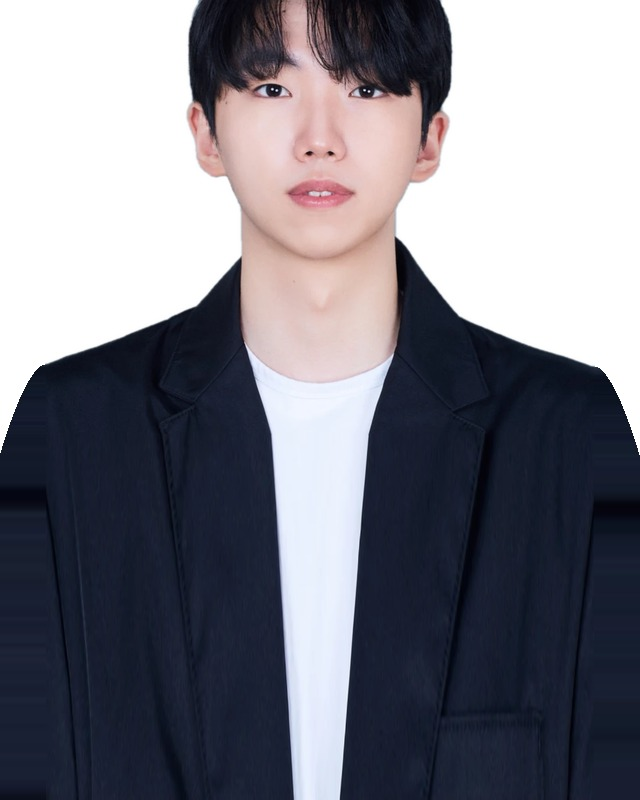
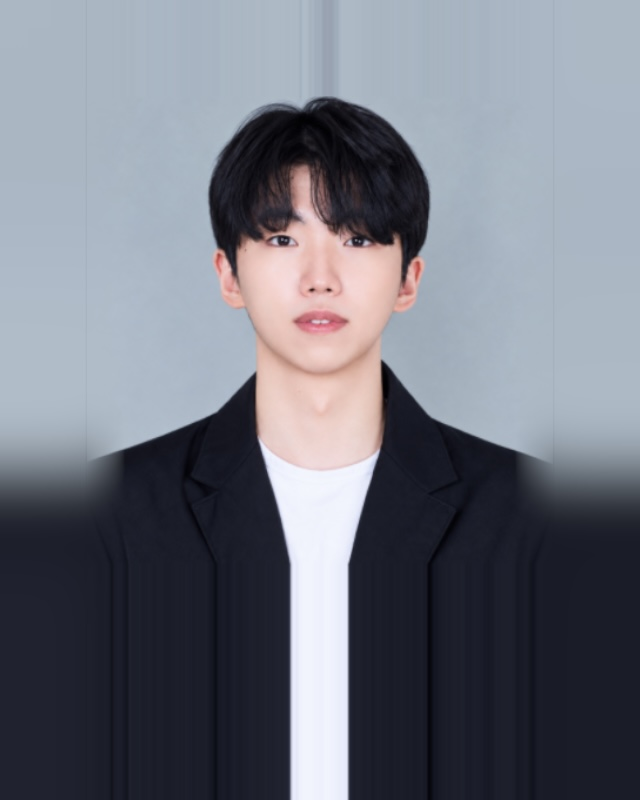
강사진: 국어 순서 류성훈·이태형·장의순·최현재, 장의순·김호랑 사진·약력, 이태형 사진 교체(얼굴 작게)·시대인재 대치 추가, 이태형T 수강후기 10건

diff --git a/index.html b/index.html
@@ -332,6 +332,14 @@ section.v2-sec.gray{background:#F4F4F2;padding:120px 0}
 .evc.js .sem{background:none;border-radius:0;border-top:1px solid #34363B;padding:16px 0 4px}.evc.js .sem .d{color:#B9BBBF}.evc.js .sem .d b{color:#fff}
 .evc.js .tel{background:#fff;color:#111214;border-radius:0;font-weight:600}
 @media(max-width:600px){.v2-hero{padding:72px 0 64px}.v2-photo{height:300px}section.v2-sec,section.v2-sec.gray,.v2-songdo,.v2-contact{padding:88px 0}.v2-three article{padding:32px 0}.v2-rows span{font-size:16px}.v2-rows b{font-size:26px}}
+
+/* 2026-11-23 이태형T 수강후기 (2027학년도) */
+.rv-grid{columns:2 340px;column-gap:20px}
+.rv{break-inside:avoid;margin:0 0 20px;background:#fff;border:1px solid #E4E4E1;padding:26px 26px 22px}
+.rv b{display:block;font-family:"Noto Serif KR",serif;font-size:19px;font-weight:600;line-height:1.45;margin-bottom:12px;color:#111214}
+.rv p{margin:0;font-size:15px;line-height:1.85;color:#45484D}
+.rv small{display:block;margin-top:14px;font-size:12.5px;letter-spacing:.04em;color:var(--accent);font-weight:600}
+.rv.hide{display:none}
 </style>
 </head>
 <body>
@@ -424,6 +432,18 @@ section.v2-sec.gray{background:#F4F4F2;padding:120px 0}
     <div class="gallery" id="gallery"></div>
     <div class="more"><button class="v2-btn line" id="moreBtn">수기 더 보기</button></div>
     <p class="note">※ 수기와 성적표는 동의를 받은 제자들에 한해 공개하며, 학생 이름은 가려서 게시합니다.</p>
+  </div>
+</section>
+
+<section class="v2-sec gray" id="reviews">
+  <div class="wrap">
+    <div class="v2-head">
+      <div><p class="v2-eye">REVIEWS · 2027학년도</p><h2>이태형T — 오늘부로 시험을 잘 보는 사람으로 다시 태어나다!</h2></div>
+      <p style="margin:0;max-width:420px;color:#45484D">2027 수능을 마친 이태형 선생님 국어 수강생들이 직접 보내온 후기입니다.</p>
+    </div>
+    <div class="rv-grid" id="rvGrid"></div>
+    <div class="more"><button class="v2-btn line" id="rvMore">후기 더 보기</button></div>
+    <p class="note">※ 수강생이 보낸 카카오톡 후기를 동의를 받아 옮겼으며, 읽기 쉽도록 길이를 줄이고 표현을 다듬었습니다.</p>
   </div>
 </section>
 
@@ -552,7 +572,8 @@ section.v2-sec.gray{background:#F4F4F2;padding:120px 0}
 const T=[
 /* 약력 순서 통일: ① 학력 → ② 현) → ③ 전) → ④ 실적 · 저서  (2026-11-16 사장님 요청) */
  {n:'류성훈',s:'국어',c:['강남대성학원 S2 언어와 매체 강의평가 최우수 강사','대치 두각','26학년도 수능 언어와 매체 만점자 배출 (전국 250명 가량)']},
- {n:'이태형',s:'국어',c:['서울대학교','다원교육','연속 수능 국어 만점자 배출','행정고시 2차 PASS','LEET 언어이해 1등']},
+ {n:'이태형',s:'국어',c:['서울대학교','시대인재 대치','다원교육','연속 수능 국어 만점자 배출','행정고시 2차 PASS','LEET 언어이해 1등']},
+ {n:'장의순',s:'국어',c:['서울대학교 국어국문학과 졸업','시대인재 재종학원 정규반','장의순 수능국어 연구소','시대인재 서바이벌 검수','상상모의고사 공식 해설 강사 (온라인 단독 선정)','KBS · TV조선 의대 입시 인터뷰']},
  {n:'권현석',s:'수학',c:['서울대학교 졸업','강남대성','대치 두각']},
  {n:'정민',s:'영어',c:['고려대학교 영어교육과','메가스터디 최상위권 담당 강사','강의평가 1위','모의고사 출제 · 검수 위원']},
  {n:'홍진수',s:'탐구',t:'통합과학',c:['서울대학교','현) 대성마이맥 수능 물리학 인강','현) 대치 미래탐구','전) 대치 다원교육','전) 강남대성학원']},
@@ -565,8 +586,7 @@ const T=[
  {n:'최현재',s:'국어',t:'국어 · 고3 내신',c:['고려대학교 졸업','메가로스쿨 LEET 언어이해 전국모의고사 출제 · 검토 위원 (2018년~)','상상 모의고사 인문 분야 독서 출제 (2021년~)','강대K 모의고사 독서 출제 · 검토 (2021년~)','바탕 모의고사 사회 분야 독서 출제 (2021년~)']},
  {n:'손영호',s:'수학',c:['서울대학교 수학과 · 포항공대 석사','미래탐구 · 포철고 · 천안북일고 등 자사고 · 지자체 논술 강의']},
  {n:'김광수',s:'국어',c:['서울대학교 국어국문학과 박사','전) 시대인재','『청산 약술국어해설집』']},
- {n:'장의순',s:'국어',c:['서울대학교 국어국문학과','대치 시대인재 국어','KBS · TV조선 의대 입시 인터뷰']},
- {n:'김호랑',s:'국어',c:['서울대학교 국어교육과','메가스터디 러셀 강남 · 대치 독수리의대관','24 · 25 · 26 수능 언어와 매체 적중','『문법 초석』 집필']},
+ {n:'김호랑',s:'국어',t:'언어와 매체',c:['서울대학교 국어교육과 졸업','현) 메가스터디 러셀 강남 강사','현) 대치 독수리 의대관 강사','교재 『문법 초석』 집필 및 강의 활용','수능 · 내신 대비 주관식 테스트 / 피드백','24 · 25 · 26학년도 수능 언어와 매체 100% 적중','25 · 26학년도 6평, 24 · 26학년도 9평 언매 적중']},
  {n:'김경한',s:'수학',c:['고려대학교 수학교육과 졸업','현) 대성마이맥 인강 강사','현) 두각학원','현) 강남대성학원','현) 독수리 의대관','EBS · 대성마이맥 · 강남대성 강의평가 1위']},
  {n:'김병우',s:'수학',c:['고려대학교 수학교육과','대치 시대인재']},
  {n:'김준교',s:'수학',c:['서울과학고등학교 졸업','KAIST 졸업']},
@@ -590,7 +610,7 @@ const T=[
 ];
 const list=document.getElementById('tlist');
 /* 사진: img/teachers/이름.jpg 를 PHOTO 에 적으면 사진, 없으면 성 한 글자 */
-const PHOTO={};['류성훈','이태형','권현석','정민','홍진수','최정윤','이예섭','정지만','김현중','이창환','최현재','김경한','문지현','박정은'].forEach(n=>PHOTO[n]='img/teachers/'+n+'.jpg');
+const PHOTO={};['류성훈','이태형','장의순','김호랑','권현석','정민','홍진수','최정윤','이예섭','정지만','김현중','이창환','최현재','김경한','문지현','박정은'].forEach(n=>PHOTO[n]='img/teachers/'+n+'.jpg');
 /* 줄 순서: 1줄 국어 · 2줄 수학 · 3줄 영어 · 4줄 탐구 · 논술 (11/19 사장님 요청)
    같은 과목 안에서는 (탐구는 통합과학·통합사회·사탐 순으로 묶고) 사진 있는 강사 먼저, 나머지는 배열 순서 그대로 */
 const SUBJ=['국어','수학','영어','탐구','논술'];
@@ -620,6 +640,12 @@ document.getElementById('tabs').addEventListener('click',e=>{
   document.querySelectorAll('.tab').forEach(x=>x.classList.toggle('on',x===b)); drawT(b.dataset.f);
 });
 
+
+/* 이태형T 수강후기 (2027학년도, 2026-11-23) */
+const RV=[["현역 5등급 → 태어나서 처음 91점", "현역 5등급, 재수 3등급(78점). 항상 국어가 크게 늘지 못했는데 마지막이라는 마음으로 겨울 무료특강 때 쌤을 만났습니다. 학생 하나하나 문제점을 개별로 다 알려주시는 게 좋았습니다. 내가 지문 볼 때 무엇을 못 보는지, 선지를 제대로 판단하는지 꼼꼼하게 알려주셔서 도움이 많이 됐습니다. 특히 클리닉이 진짜 좋았습니다. 한 주 한 주 배우면서 어떻게 접근해야 하는지, 풀이 시 헷갈릴 때 대처법 등을 다양하게 배우고 오늘 시험장에 들어갔고 태어나서 처음으로 91점 맞았습니다! 수능 몇 주 전 EBS 찍어준 작품이랑 독서 주제가 거의 그대로 나와서 진짜 놀랐습니다. 덕분에 풀 때 엄청 떨리진 않았어요! 정말 감사합니다."], ["컨디션에 흔들리지 않는 같은 사고 체계", "국어 과목 특성상 기복이 심할 수 있는데 그런 부분에서 안정적인 점수 확보에 도움이 많이 됐어요. 독서 제재별 독해 방향성을 잡는 연습과 중심 화두를 잡고 문제를 푸는 연습 위주로 하다 보니 컨디션에 좌우되지 않고 똑같은 사고 체계를 계속 적용할 수 있었다는 점이 가장 안정적이고 확실한 장점이라고 생각합니다. 문학도 마찬가지로 똑같은 패턴(보기 불일치 → 사실관계 확인 → 오선지 연결)으로 연습하다 보니 주관적인 개입을 최대한 배제하고 문제를 풀 수 있었어요. 주관을 배제하고 답을 찾는 체계를 확립하는 수업이라 성적 변화 폭을 안정적으로 유지하고 향상시킬 수 있었던 것 같아요."], ["문학 3등급 → 수능 96점", "1년 정도 이태형 선생님 수업을 들었는데 96점이라는 만족스러운 성적을 받게 되어 너무 감사해요. 작년 수능을 풀어 봤을 때 문학 때문에 3등급이 뜰 정도로 문학을 못했는데, 선생님이 문학을 깔끔하게 정리해 주셔서 아주 좋았어요. 가장 좋았던 건 선지 정보화와 문장 표시 — 사소한 습관이지만 이것만 해도 문학은 거의 다 맞게 될 정도로 중요한 습관이었어요. 또 다른 단과들과 달리 언매 수업을 해 주신다는 점! 실전 위주로 언매를 많이 다뤄 주셔서 지문형 문법이 약했는데 알려주신 대로 푸니 오늘도 다 맞을 수 있었어요. 국어만큼은 너무 만족스러운 결과였습니다."], ["재수·삼수에도 안 잡히던 문학, 수능에서 하나만 틀림", "반 년이라는 짧다면 짧은 시간 동안 선생님 수업을 들으면서 정말 많이 배우고 성장했습니다! 재수, 삼수를 해도 문학은 계속 잡히지 않았는데 선생님 수업을 받고 정말 좋아져서 결국 수능 때 문학에서 하나 빼고 다 맞았어요. 2년 동안 노력해도 안 잡혔는데 쌤 덕분에 완전 안정적인 실력을 얻을 수 있었어요. 수능장에서 독서도 사실 잘 안 읽혔는데, 가르침 받은 대로 기계적으로 풀면서 잘 풀 수 있었어요!"], ["시대인재 일타 수업과 병행하다 결국 정착", "예비 고3 겨울방학, 국어 잘하는 친구들이 주로 선택하는 수업이라는 이야기를 듣고 20명 정원 팀 수업이라는 점에 끌려 신청했습니다. 시대인재 일타 강사님 수업도 함께 들었는데, 한 달 병행한 뒤 결국 이태형 선생님 수업에 정착해 1년 풀커리를 탔습니다. 가장 큰 장점은 고3 국어에 걸맞은 풀이법을 학기 초부터 빠르게 정립하게 해 주신다는 것. 시중의 거의 모든 실전 모의고사를 직접 검토해 좋은 지문과 문제를 선별해 주시고, 문학은 지문과 선지의 사실적 정보를 바탕으로 명쾌한 풀이법을 제시해 주셨습니다. 거의 실시간 질의응답과 학습·정서 상담까지, 지쳤던 고3 생활에 큰 위로와 격려가 되었습니다."], ["미술 입시생, 2027 수능 공통 독서 1개·문학 1개", "2027 수능 겨울방특부터 파이널까지 이태형 선생님 수업으로 국어를 준비했습니다. 미술 입시생이라 국어가 제일 중요했는데 태형쌤 수업을 들은 건 정말 잘한 선택이었어요. 수강 전엔 감으로만 풀었는데 비문학과 문학 풀이 방식을 수학처럼 공식화해 주셔서 어떤 글이 나와도 당황하지 않고 적용할 수 있었어요. 특히 문학 수업에서 얻어 갈 게 정말 많고, 시간 단축에도 훨씬 도움이 됐어요. 덕분에 이번 2027 수능 공통에서 독서 1개, 문학 1개 틀렸어요. 학생 개개인의 수준과 목표에 맞춰 보완할 점을 짚어 주셔서 집중적으로 연습하기도 좋았습니다."], ["수업부터 카톡까지, 질문은 언제든", "수업 시간부터 카톡으로까지 세세하게 질문을 봐주신 게 가장 좋았습니다! 언제든 편하게 질문할 수 있어서 풀이 교정을 바로바로 할 수 있었어요. 국어 학원을 처음 다녀 봐서 정형화된 풀이가 아예 없는 상태였는데, 지문들을 일관되게 푸는 걸 계속 보여 주셔서 꾸준히 따라 하며 풀이 루틴을 잡을 수 있었습니다. 기타 과목 플랜 잡는 것과 모르는 것까지 도와주셔서 전 과목에 걸쳐 도움을 받을 수 있었던 것도 좋았어요!"], ["이보다 실전적인 수업은 없었다", "독서 — 글 속 정보를 모두 지식으로 습득하지 않아도 글의 구조와 화두에 따라 문제 풀이에 필요한 해석을 가능케 한다. 특정 제재에만 맞는 해석이 아니라 모든 비문학 지문에 보편적으로 적용 가능했다. 많은 친구들이 '뭔 말이냐' 하는 지문에서도 정확하게 해석하는 힘을 기를 수 있었다. 문학 — 이보다 실전적인 수업은 없었다. 수강생이라면 누구나 빠르고 정확하게 적용 가능하게 가르친다. 현역 때 문학이 구멍이었는데 재수·삼수 모두 문학에서 구멍이 뚫리지 않았다. 문학 하방을 잘 지키려면 가장 필요한 수업이 아닌가 싶다."], ["1%의 애매함도 없이 고르는 선지", "국어는 항상 그날 컨디션에 따라 등급이 오락가락하고, 느낌 가는 대로 푸는 가장 모호하고 애매한 과목이라고 생각했습니다. 선생님 수업을 들은 이후로 국어도 하나의 체계 안에서 수학처럼 풀 수 있는 과목이라는 걸 알게 됐고, 더 이상 변수처럼 느껴지지 않게 되었어요! 여러 선생님께 배울 때도 끝에는 늘 애매하고 사후적이라는 느낌을 버리지 못했는데, 체계를 배우고 글과 선지에서 봐야 할 부분을 명확하게 인지하는 연습을 한 덕분에 1%의 애매함도 없이 객관적 정보만으로 선지를 소거하며 확신을 가지고 고를 수 있게 되었습니다."], ["모의고사 4등급 → 10·11월 1~2등급", "3월 전까지 정말 많은 선생님들 수업을 들어 봤는데 아무리 들어도 본질적인 무언가가 빠져 있는 느낌이었어요. 모의고사에서 계속 4등급이 나오다가 이태형쌤 수업을 듣게 되었습니다. 기본 방법론이 실전적이고 어떤 지문이든 유연하게 적용되는 점이 좋았어요. 문학도 지문을 통째로 읽지 않고 〈보기〉에서 주제를 잡은 뒤 대응하며 읽는 방식이 시간 절약에 큰 도움이 됐어요. 무엇보다 드린 질문에 늘 열의를 다해 답변해 주셔서 제게 본질적으로 부족한 점이 뭔지 알 수 있었습니다. 그 결과 10월, 11월 모의고사는 모두 1~2등급이 나왔고, 수능은 살짝 삐끗해 2등급이었지만 충분히 만족합니다!"]];
+(function(){const g=document.getElementById('rvGrid'),b=document.getElementById('rvMore'),esc=t=>t.replace(/[&<>]/g,c=>({'&':'&amp;','<':'&lt;','>':'&gt;'}[c]));
+ g.innerHTML=RV.map((r,i)=>`<article class="rv${i>=6?' hide':''}"><b>${esc(r[0])}</b><p>${esc(r[1])}</p><small>이태형T 국어 수강생</small></article>`).join('');
+ b.onclick=()=>{g.querySelectorAll('.rv.hide').forEach(x=>x.classList.remove('hide'));b.parentNode.style.display='none';};})();
 const N=52, imgs=Array.from({length:N},(_,i)=>`img/results/r${String(i+1).padStart(2,'0')}.jpg`);
 let shown=0; const g=document.getElementById('gallery'), more=document.getElementById('moreBtn');
 function showMore(){
